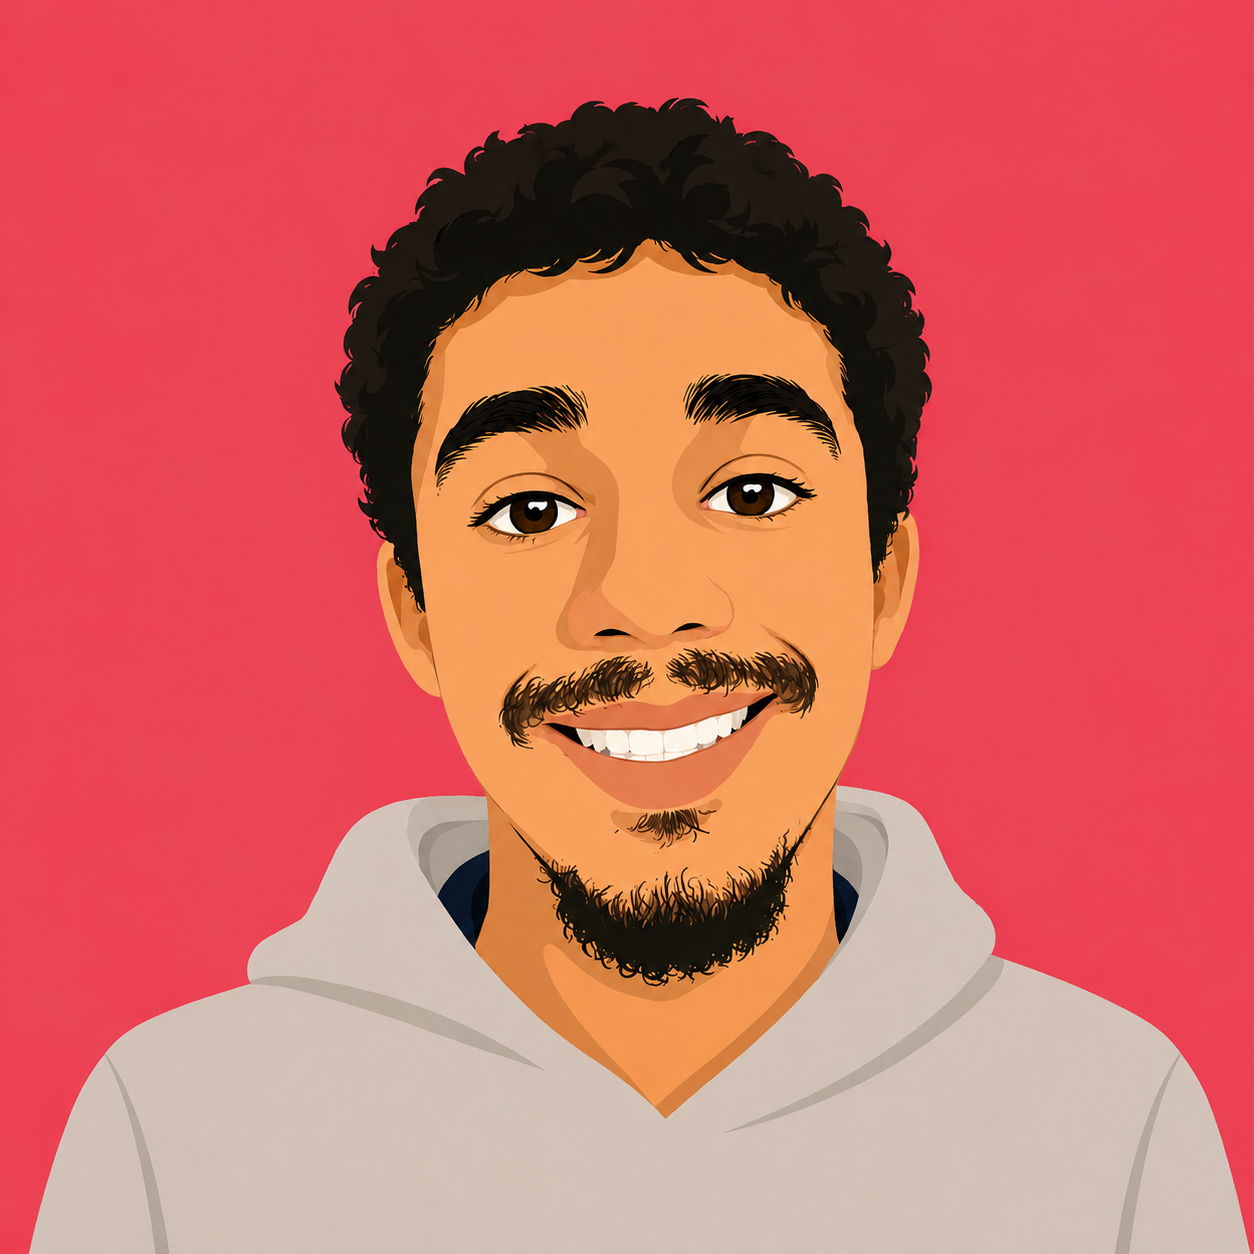
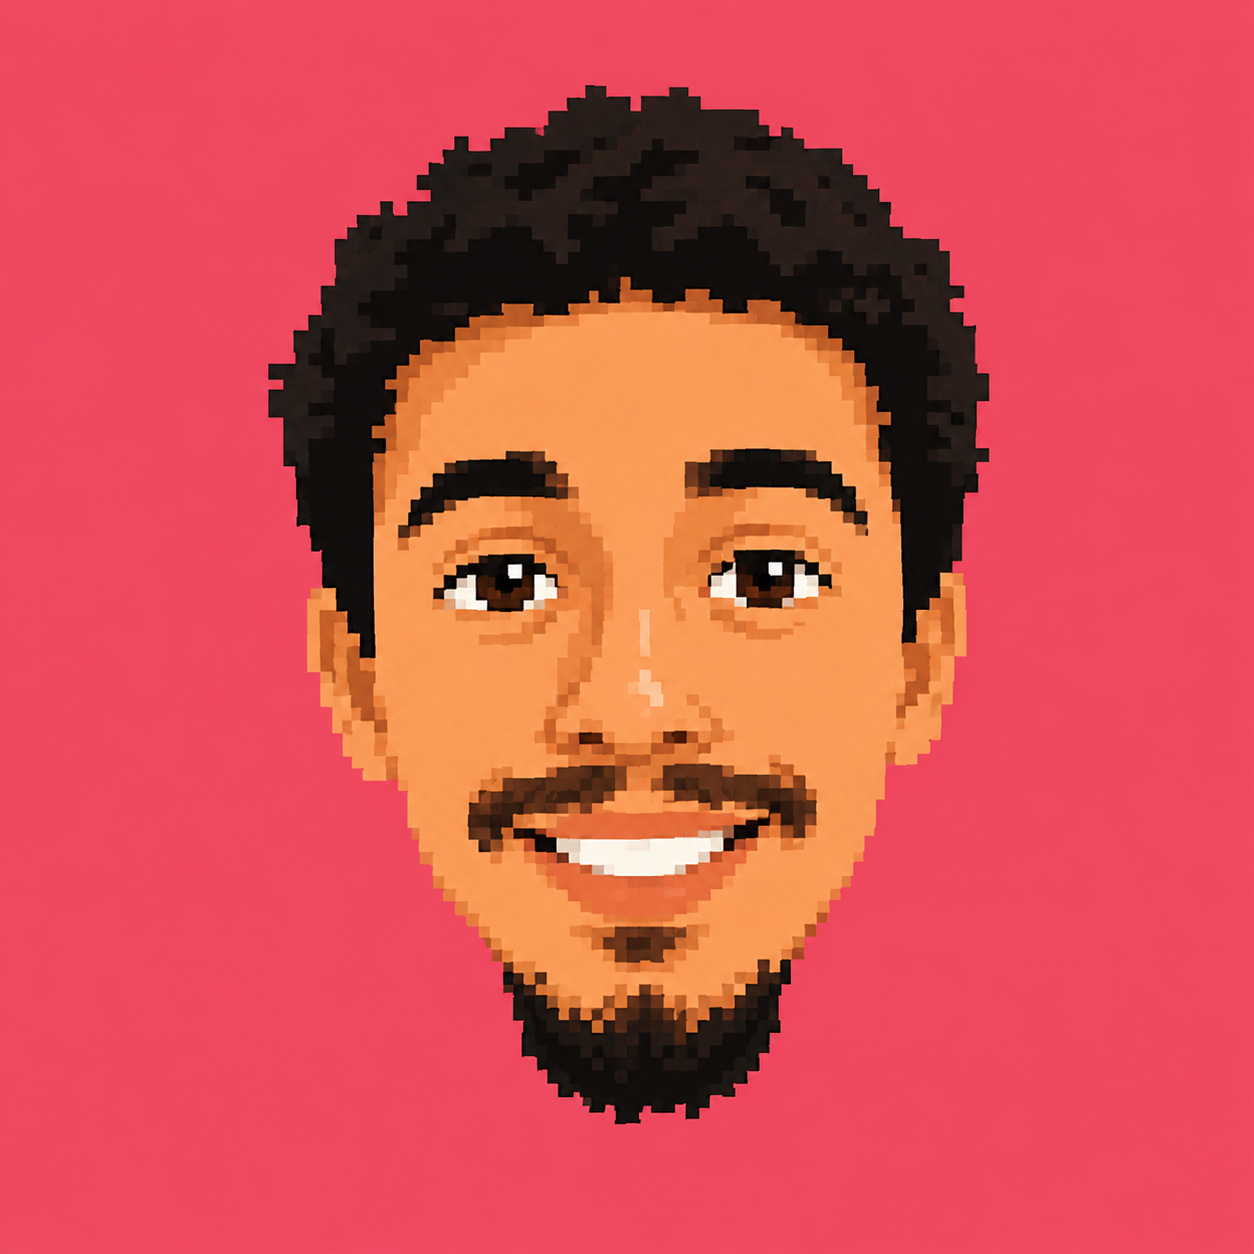
Create the card-project component

diff --git a/css/components/card-project.css b/css/components/card-project.css
@@ -1,0 +1,14 @@
+.card-project{
+display: flex;
+background-color: #7C5E99;
+justify-content: center;
+align-items: center;
+width: 280px;
+height: 280px;
+box-shadow: 10px 10px 0px #ffffff;
+}
+
+.card-project.-blue{
+background-color: #4C5B84;
+}
+

diff --git a/index.html b/index.html
@@ -24,6 +24,7 @@
     <link rel="stylesheet" href="css/components/wrapper-skill.css" />
     <link rel="stylesheet" href="css/components/skill-tec.css">
     <link rel="stylesheet" href="css/components/progress-bar.css">
+    <link rel="stylesheet" href="css/components/card-project.css">
   </head>
   <body>
     <header class="header">
@@ -124,6 +125,17 @@
             </progress>
       </article>
           </div>
+    </section>
+    <section class="section">
+        <figure class="card-project -blue">
+          <img class="logo" src="/img/collabcode.png" alt="Logo do CollabCode">
+        </figure>
+                <figure class="card-project">
+          <img class="logo" src="/img/firedlabs.png" alt="Logo do FiredLabs">
+        </figure>
+                <figure class="card-project">
+          <img class="logo" src="/img/avatar.png" alt="Logo do Avatar do Ryan">
+        </figure>
     </section>
   </body>
 </html>